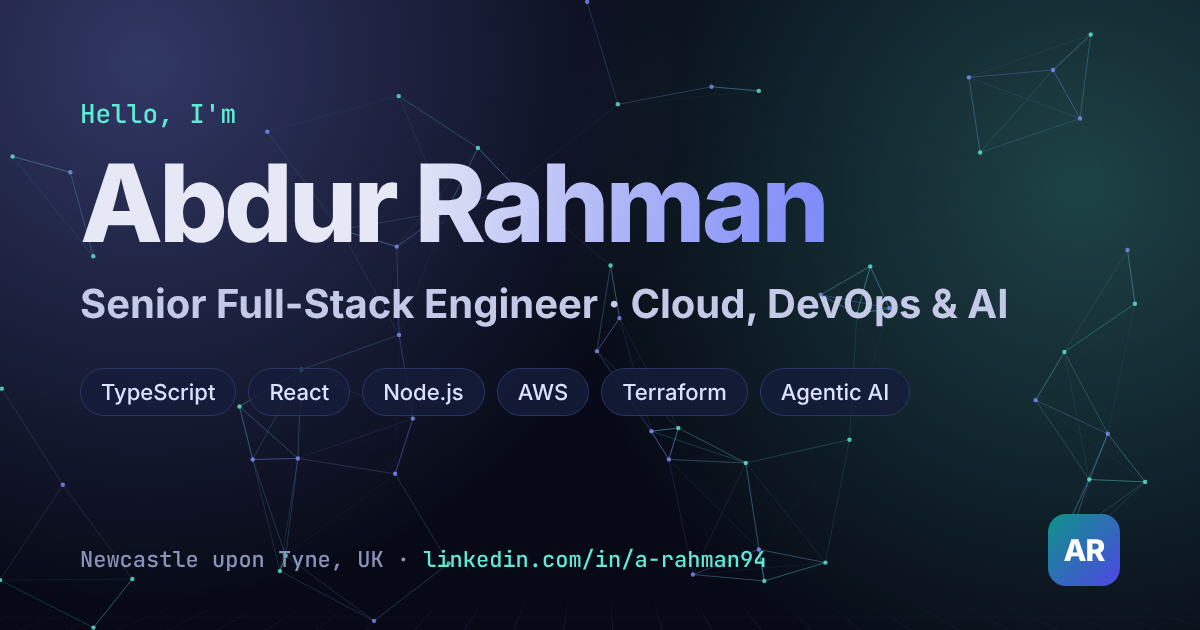
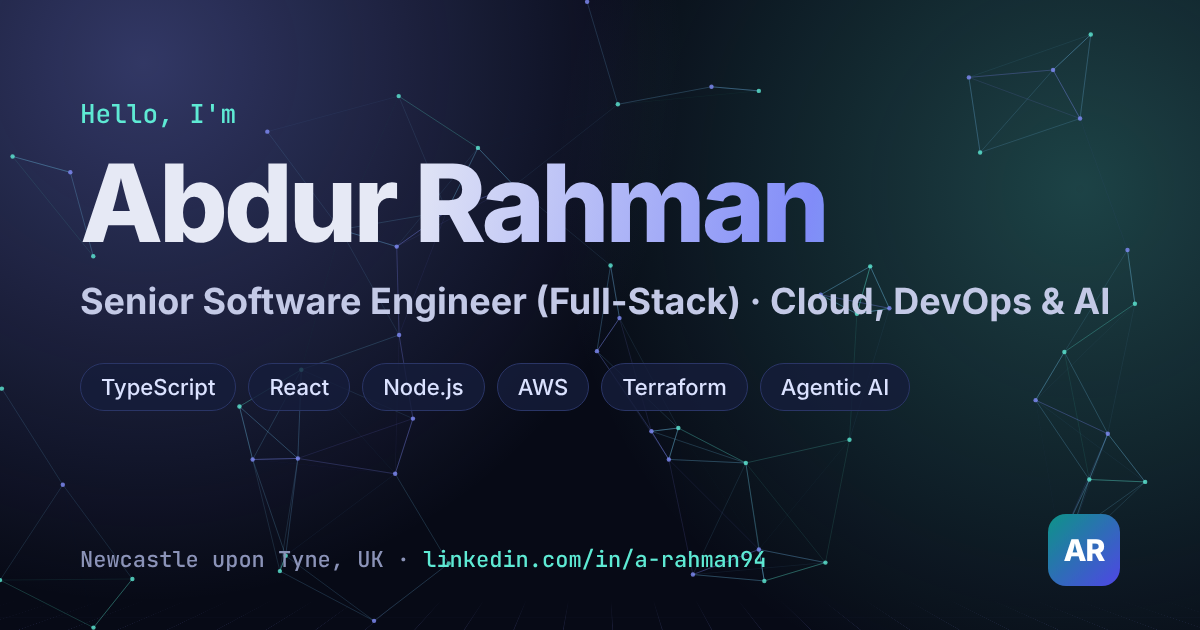
Change role title to Senior Software Engineer (Full-Stack)
Update page title, meta and share tags, structured data, hero, about,
code card, terminal whoami and the share image.

Claude-Session: https://claude.ai/code/session_01XugQGoMwRavK36meH1HoPQ

diff --git a/index.html b/index.html
@@ -4,8 +4,8 @@
   <meta charset="utf-8">
   <meta name="viewport" content="width=device-width, initial-scale=1, viewport-fit=cover">
   <meta name="theme-color" content="#f6f7fb">
-  <title>Abdur Rahman — Senior Full-Stack Engineer</title>
-  <meta name="description" content="Abdur Rahman, Senior Full-Stack Engineer specialising in Cloud, DevOps and AI. TypeScript, React, Node.js, AWS, Terraform and agentic AI. Based in Newcastle upon Tyne, UK.">
+  <title>Abdur Rahman — Senior Software Engineer (Full-Stack)</title>
+  <meta name="description" content="Abdur Rahman, Senior Software Engineer (Full-Stack) specialising in Cloud, DevOps and AI. TypeScript, React, Node.js, AWS, Terraform and agentic AI. Based in Newcastle upon Tyne, UK.">
   <meta name="author" content="Abdur Rahman">
   <link rel="canonical" href="https://arbhuiyan.github.io/portfolio/">
   <link rel="icon" href="favicon.svg" type="image/svg+xml">
@@ -13,19 +13,19 @@
 
   <meta property="og:type" content="profile">
   <meta property="og:site_name" content="Abdur Rahman">
-  <meta property="og:title" content="Abdur Rahman — Senior Full-Stack Engineer">
-  <meta property="og:description" content="Senior Full-Stack Engineer specialising in Cloud, DevOps and AI. TypeScript, React, Node.js, AWS, Terraform and agentic AI. Based in Newcastle upon Tyne, UK.">
+  <meta property="og:title" content="Abdur Rahman — Senior Software Engineer (Full-Stack)">
+  <meta property="og:description" content="Senior Software Engineer (Full-Stack) specialising in Cloud, DevOps and AI. TypeScript, React, Node.js, AWS, Terraform and agentic AI. Based in Newcastle upon Tyne, UK.">
   <meta property="og:url" content="https://arbhuiyan.github.io/portfolio/">
   <meta property="og:image" content="https://arbhuiyan.github.io/portfolio/og-image.png">
   <meta property="og:image:width" content="1200">
   <meta property="og:image:height" content="630">
-  <meta property="og:image:alt" content="Abdur Rahman, Senior Full-Stack Engineer · Cloud, DevOps &amp; AI">
+  <meta property="og:image:alt" content="Abdur Rahman, Senior Software Engineer (Full-Stack) · Cloud, DevOps &amp; AI">
   <meta property="og:locale" content="en_GB">
   <meta property="profile:first_name" content="Abdur">
   <meta property="profile:last_name" content="Rahman">
   <meta name="twitter:card" content="summary_large_image">
-  <meta name="twitter:title" content="Abdur Rahman — Senior Full-Stack Engineer">
-  <meta name="twitter:description" content="Senior Full-Stack Engineer specialising in Cloud, DevOps and AI. TypeScript, React, Node.js, AWS, Terraform and agentic AI. Based in Newcastle upon Tyne, UK.">
+  <meta name="twitter:title" content="Abdur Rahman — Senior Software Engineer (Full-Stack)">
+  <meta name="twitter:description" content="Senior Software Engineer (Full-Stack) specialising in Cloud, DevOps and AI. TypeScript, React, Node.js, AWS, Terraform and agentic AI. Based in Newcastle upon Tyne, UK.">
   <meta name="twitter:image" content="https://arbhuiyan.github.io/portfolio/og-image.png">
 
   <script type="application/ld+json">
@@ -33,7 +33,7 @@
     "@context": "https://schema.org",
     "@type": "Person",
     "name": "Abdur Rahman",
-    "jobTitle": "Senior Full-Stack Engineer",
+    "jobTitle": "Senior Software Engineer (Full-Stack)",
     "url": "https://arbhuiyan.github.io/portfolio/",
     "image": "https://arbhuiyan.github.io/portfolio/og-image.png",
     "address": { "@type": "PostalAddress", "addressLocality": "Newcastle upon Tyne", "addressCountry": "GB" },
@@ -131,7 +131,7 @@
         <h1>Abdur Rahman</h1>
         <h2 class="tagline">I build <span class="typed" id="typed"></span><span class="caret">|</span></h2>
         <p class="lead">
-          Senior Full-Stack Engineer working across the whole application lifecycle — architecture and API design,
+          Senior Software Engineer (Full-Stack) working across the whole application lifecycle — architecture and API design,
           web and mobile front ends, cloud infrastructure, CI/CD, security, testing and production support —
           with hands-on AI engineering in real products.
         </p>
@@ -158,7 +158,7 @@
       <div class="about-grid">
         <div class="reveal">
           <p>
-            I'm a Senior Full-Stack Engineer who modernises SaaS products and evolves their architecture across
+            I'm a Senior Software Engineer (Full-Stack) who modernises SaaS products and evolves their architecture across
             microservices, serverless and modular monoliths — picking the right pattern for each product rather
             than one size for all.
           </p>

diff --git a/script.js b/script.js
@@ -231,7 +231,7 @@ if (!isDark()) setTimeout(() => { if (!isDark()) alertEl.hidden = false; }, 1800
 (() => {
   const lines = [
     ['k', 'const'], [' ', ' '], ['v', 'abdur'], [' ', ' = {\n'],
-    [' ', '  role: '], ['s', '"Senior Full-Stack Engineer"'], [' ', ',\n'],
+    [' ', '  role: '], ['s', '"Senior Software Engineer (Full-Stack)"'], [' ', ',\n'],
     [' ', '  focus: ['], ['s', '"Cloud"'], [' ', ', '], ['s', '"DevOps"'], [' ', ', '], ['s', '"AI"'], [' ', '],\n'],
     [' ', '  stack: ['], ['s', '"TypeScript"'], [' ', ', '], ['s', '"React"'], [' ', ', '], ['s', '"PHP"'], [' ', ', '], ['s', '"AWS"'], [' ', '],\n'],
     [' ', '  status: '], ['s', '"ongoing"'], [' ', ',\n'],
@@ -421,7 +421,7 @@ let openTerminal = () => {};
       "",
       '<span class="t-dim">Tip: ↑/↓ for history, Tab to autocomplete. There may be a few hidden commands.</span>',
     ].join("\n"),
-    whoami: () => "<b>Abdur Rahman</b>\nSenior Full-Stack Engineer · Cloud, DevOps &amp; AI\nNewcastle upon Tyne, UK\nSpeaks Bangla, English &amp; Italian",
+    whoami: () => "<b>Abdur Rahman</b>\nSenior Software Engineer (Full-Stack) · Cloud, DevOps &amp; AI\nNewcastle upon Tyne, UK\nSpeaks Bangla, English &amp; Italian",
     about: () => "Full application lifecycle: architecture and API design, web and mobile front ends,\ncloud infrastructure, CI/CD, security, testing and production support.\nAlso an internal technical consultant helping teams launch and modernise products,\nwith hands-on AI engineering in real products.",
     skills: (args) => {
       const q = args.join(" ").toLowerCase();
